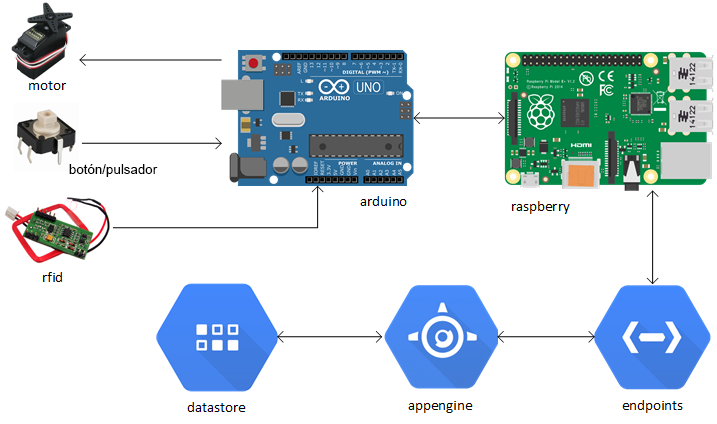
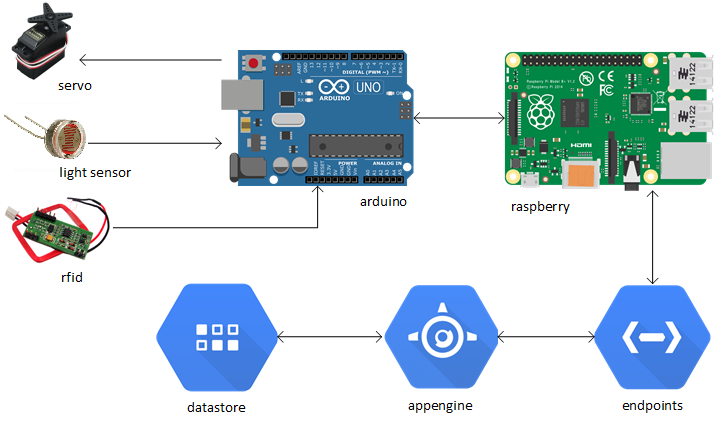
Updated documentation

Changed region(s): [[0.0, 0.2453, 0.2148, 0.4292], [0.0307, 0.184, 0.1227, 0.2146], [0.0614, 0.6439, 0.1227, 0.6745]]

diff --git a/raspberry/README.md b/raspberry/README.md
@@ -19,10 +19,16 @@ This program waits for a JSON object from Arduino, reads the JSON and extracts a
 Then it sends the RFID token to an API service and waits for a JSON wich tells Raspberry if the employee is active an has points to do an action OR if the employee is not active so it displays a PIN code in the screen.
 
 There are these types of messages:
-  {"type":"status","code":"init"} // Inform the raspberry that the arduino is initializing
-  {"type":"status","code":"ready"} // Inform the raspberry that the arduino is ready
-  {"type":"status","code":"waiting"} // Inform the raspberry that the arduino is waiting for a new RFID
-  {"type":"request","params":{ "rfid": "0x0000000000"}} // Request received from Arduino to obtain info about a RFID
-  
-  {"type":"response","result":{ "rfid": "0x0000000000", "points": 100}} // Response sent to Arduino with points associated to a RFID
-  {"type":"response","result":{ "rfid": "0x0000000000", "pin": 1234}} // Response sent to Arduino with pin associated to a RFID
+
+{"type":"status","code":"init"} // Inform the raspberry that the arduino is initializing
+
+{"type":"status","code":"ready"} // Inform the raspberry that the arduino is ready to read a new RFID
+
+{"type":"status","code":"waiting"} // Inform the raspberry that the arduino is waiting for a response
+
+{"type":"request","params":{ "rfid": "0x0000000000"}} // Send a request to raspberry to obtain info about a RFID
+
+{"type":"response","result":{ "rfid": "0x0000000000", "points": 100, "openVault": true|false, "active": true|false, "message": "Message to display"}} // Response received from raspberry with points associated to a RFID
+
+{"type":"response","result":{ "rfid": "0x0000000000", "pin": 1234, "openVault": true|false, "active": true|false, "message": "Message to display"}} // Response received from raspberry with pin associated to a RFID
+

diff --git a/README.md b/README.md
@@ -18,7 +18,7 @@ This is the architecture diagram of the project:
 - Arduino UNO (we have used a Freaduino UNO from BQ)
 - Two leds
 - One servo
-- One button
+- One light sensor
 - A RFID reader (we have used a RDM6300 reader)
 - An OLED display (we have used a 0,96 inch I2C SPI CII 128x64 LCD OLED display)
 - Raspberry Pi 3
